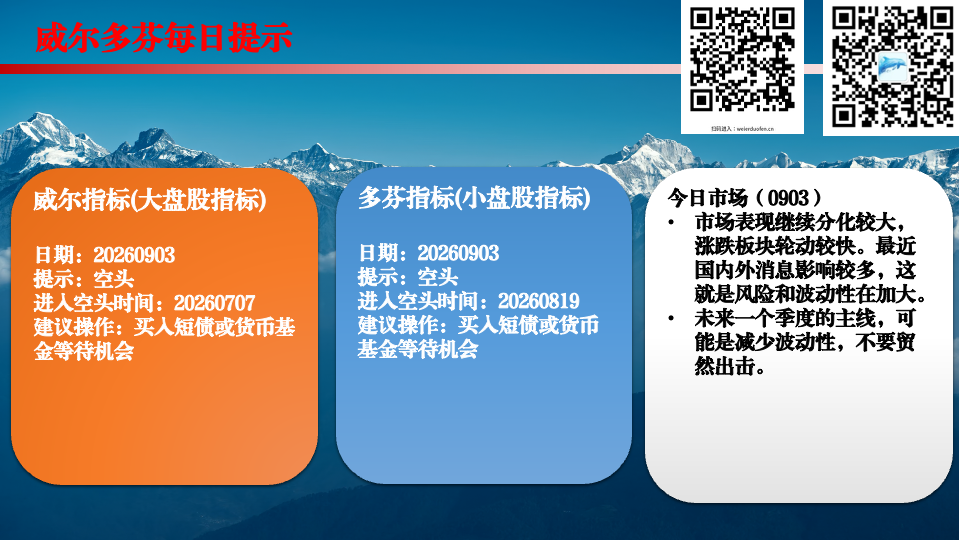
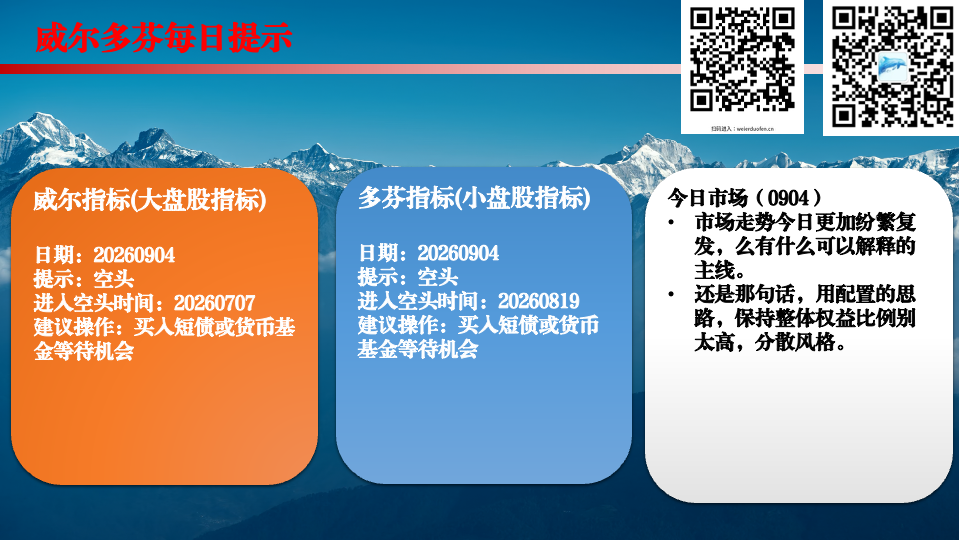
Update daily signal for 2026-09-04

Changed region(s): [[0.7188, 0.3556, 0.9688, 0.7111], [0.1562, 0.4444, 0.1875, 0.5037], [0.5, 0.4444, 0.5312, 0.4741]]

diff --git a/public/app.js b/public/app.js
@@ -46,6 +46,10 @@ function setActiveButtons() {
 function hydrateLatest() {
   const { latest, meta } = state.data;
   setText("updatedAt", `更新至 ${dateText(meta.updatedAt)}`);
+  const dailyImage = document.querySelector(".daily-image-frame img");
+  if (dailyImage) {
+    dailyImage.src = `./public/assets/daily-signal.png?v=${meta.updatedAt.replaceAll("-", "")}`;
+  }
   setText("weilerStatus", latest.weiler.status);
   setText("weilerEntered", dateText(latest.weiler.enteredAt));
   setText("weilerSuggestion", latest.weiler.suggestion);

diff --git a/index.html b/index.html
@@ -249,6 +249,6 @@
     </nav>
 
     <script async src="https://busuanzi.ibruce.info/busuanzi/2.3/busuanzi.pure.mini.js"></script>
-    <script src="./public/app.js" type="module"></script>
+    <script src="./public/app.js?v=20260904" type="module"></script>
   </body>
 </html>
